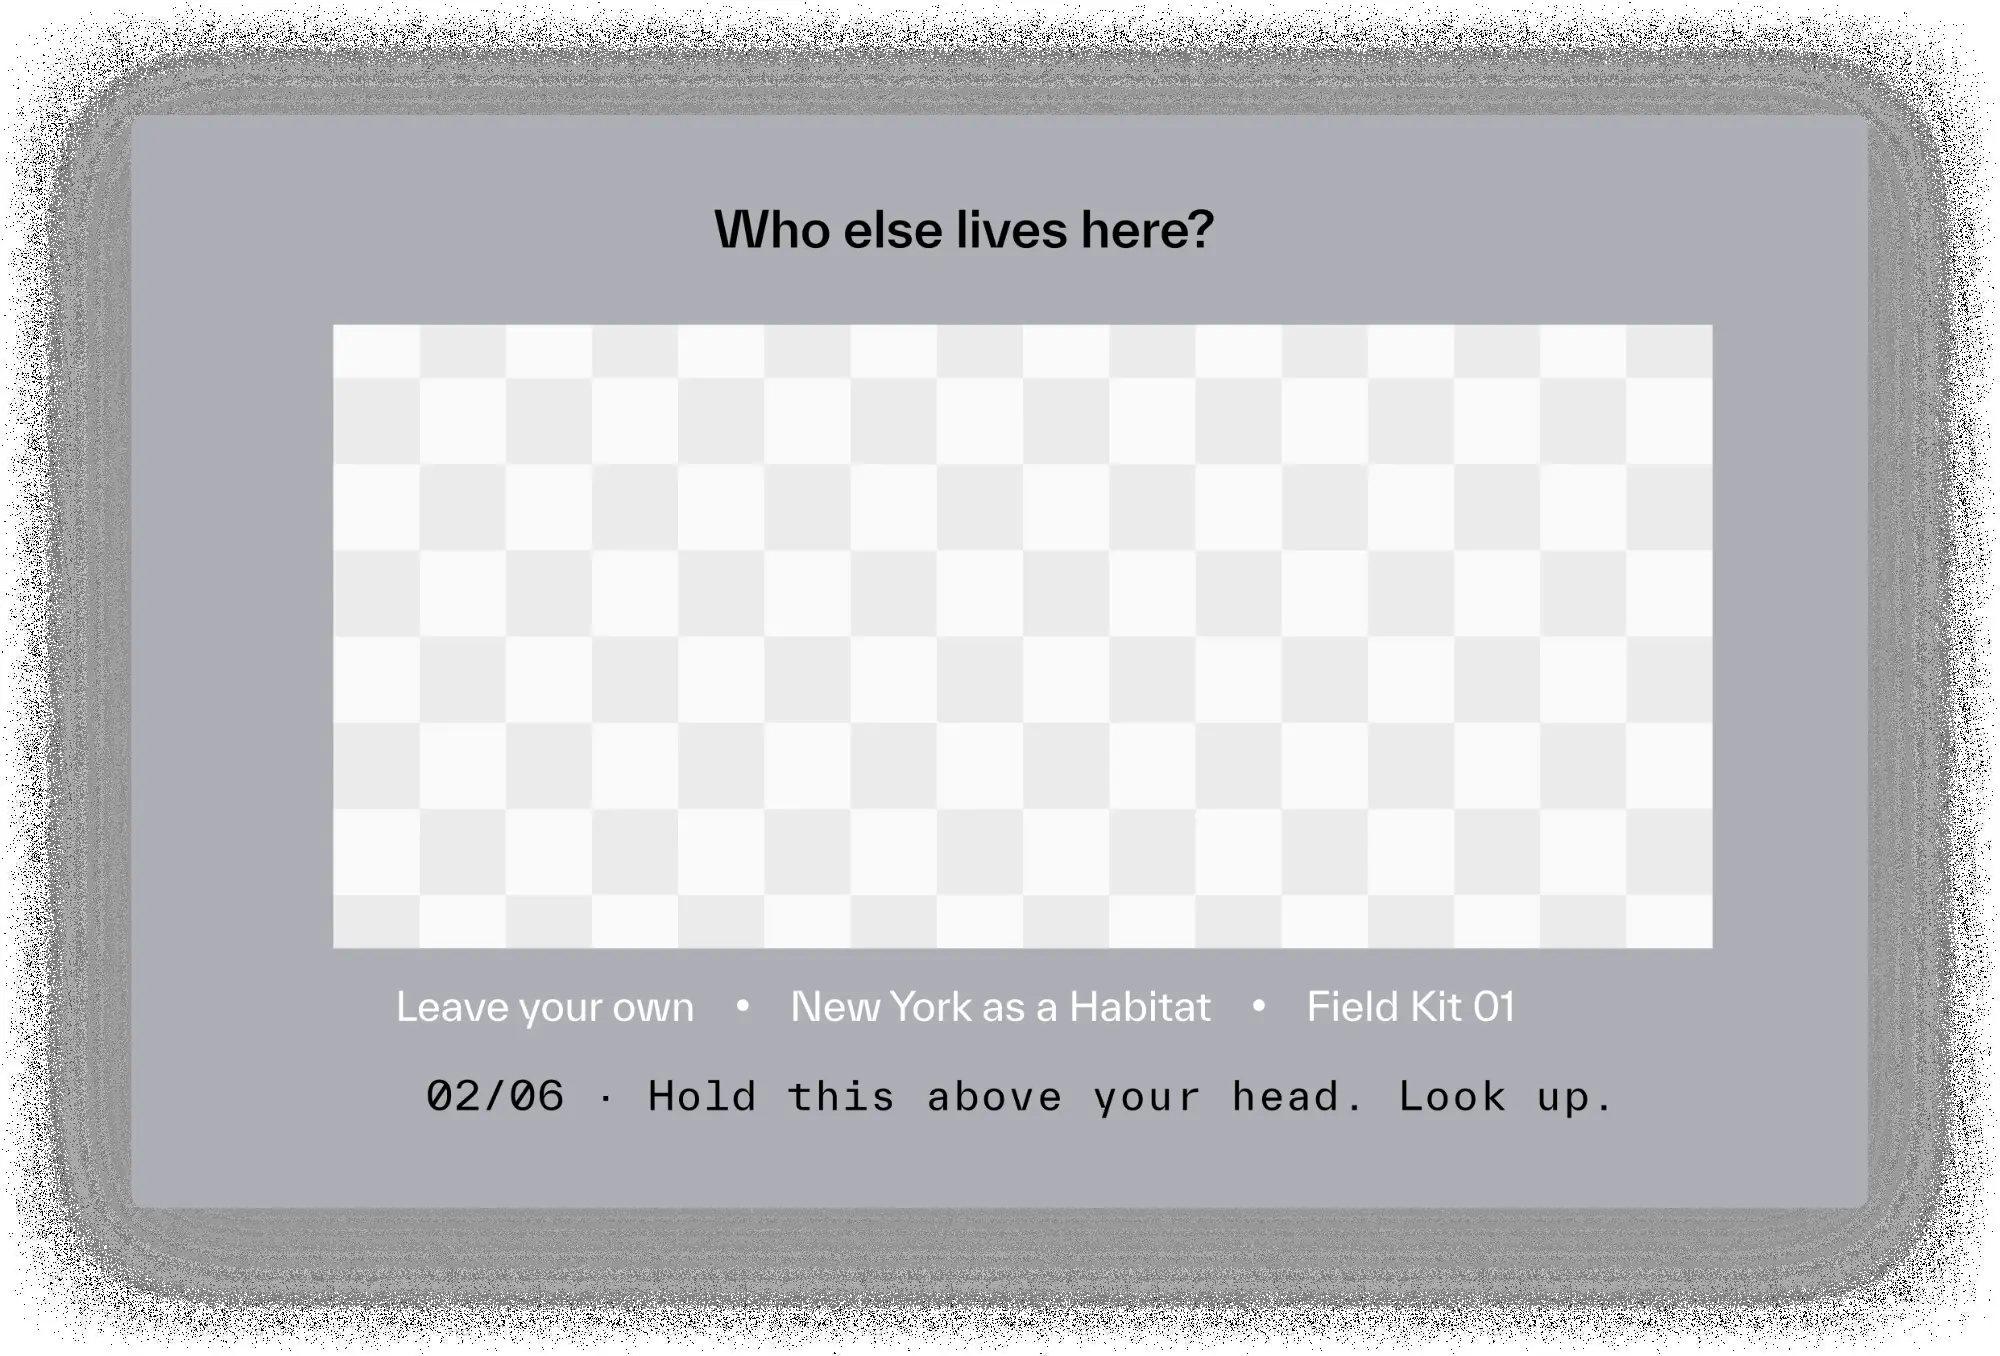
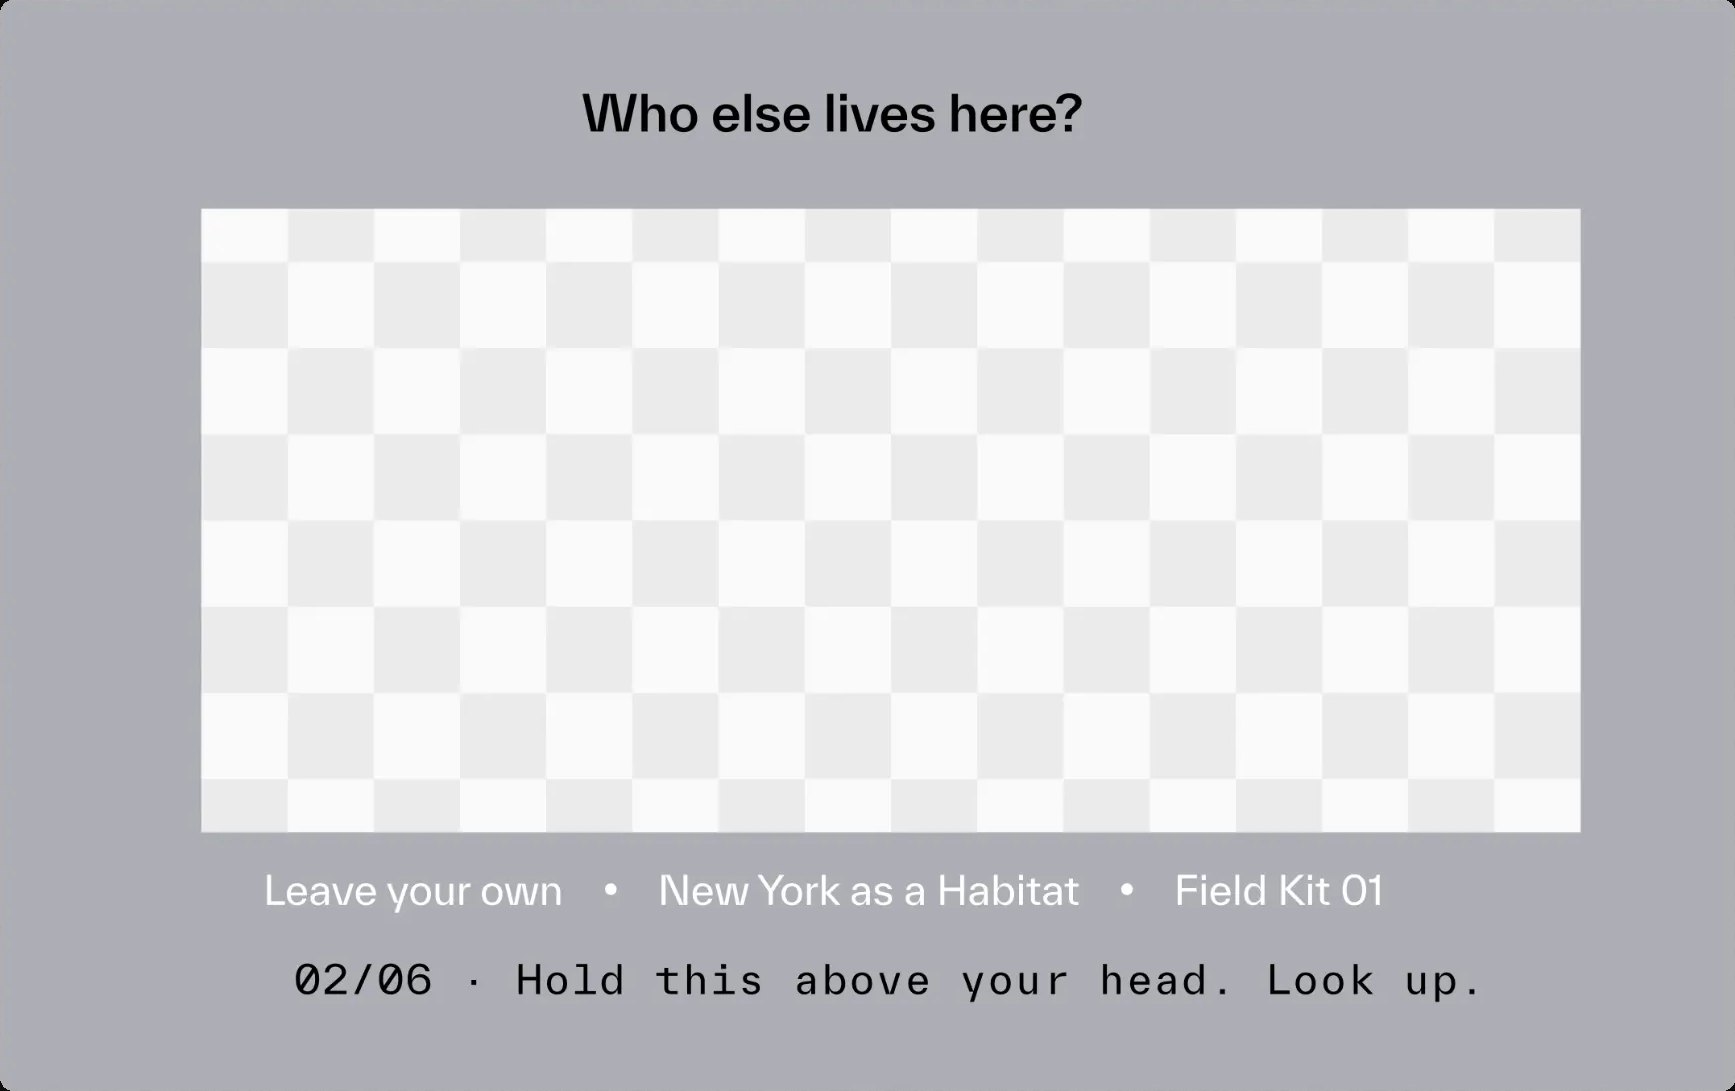
W07: Prototype 1, Continued grows into Field Kit, Poster, Paper Feather
Activity cards cropped to their edge (no shadow halo) and shown
together as one group.

diff --git a/assets/js/data.js b/assets/js/data.js
@@ -14,7 +14,7 @@
     todo      what still needs to be added (shows as a dashed box)
     images    ['book/b10', 'bookfair/f7016', ...]  → assets/img/<folder>/{thumb,full}/<file>.jpg
     links     [{ label, url }]
-    entries   [{ img: [...], source, url, about, text, more: { label, text, notes: [{ text, url }] } }]
+    entries   [{ img: [...], source, url, about, text, layout: 'column', more: { label, text, notes: [{ text, url }] } }]
               → one block per image (or pair): caption text is mine, as written
     title     longer heading shown in the panel (label stays short on the map)
     blocks    [{ title, text }]          → headed paragraphs (e.g. the four questions)
@@ -943,41 +943,44 @@ I want something like this: when people put the book down and move through the c
               entries: [{ img: ['w7-rubric/rubric'] }],
             },
             {
-              id: 'w7-fieldkit', kind: 'step', label: 'Field Kit',
-              // translated from Kiara's note (Chinese)
-              text: `These are the prototype experiments I did this week. The goal is for them to echo the online part, so the audience can do activities offline. For example, the activity cards: each one has a different task, and they encourage people to look at the city from different angles, echoing the gesture part of the website. There is also a small booklet introducing the project, with the website links on it, and a card that asks people to record the sounds around them and make a phone call.
+              id: 'w7-proto1b', kind: 'step', label: 'Prototype 1, Continued',
+              children: [
+                {
+                  id: 'w7-fieldkit', kind: 'step', label: 'Field Kit',
+                  // translated from Kiara's note (Chinese)
+                  text: `These are the prototype experiments I did this week. The goal is for them to echo the online part, so the audience can do activities offline. For example, the activity cards: each one has a different task, and they encourage people to look at the city from different angles, echoing the gesture part of the website. There is also a small booklet introducing the project, with the website links on it, and a card that asks people to record the sounds around them and make a phone call.
 
-But after making all of these, I felt they didn't solve the question of how to make a "delivery package" for the work. I know people will probably look at the website at home, but I still feel something is missing.`,
-              story: true,
-              entries: [
-                { img: ['w7-kit/k1-set'] },
-                { img: ['w7-kit/k2-card1'] },
-                { img: ['w7-kit/k3-card2'] },
-                { img: ['w7-kit/k4-card3'] },
-                { img: ['w7-kit/k5-booklet'] },
-                { img: ['w7-kit/k6-call'] },
-              ],
-            },
-            {
-              id: 'w7-poster', kind: 'step', label: 'Poster',
-              // translated from Kiara's note (Chinese)
-              text: `In the group critique I told everyone my concern. Sammi and Jhyun said I could put up posters, something like asking people whether they want to become a bird, to catch attention, and then put the website link on them. This made me think of this famous meme, so I think it's also a good way, with something like "Are you tired of being a human" written on it.`,
-              story: true,
-              entries: [
-                { img: ['w7-poster/p1-meme'] },
-                { img: ['w7-poster/p2-draft'] },
-              ],
-            },
-            {
-              id: 'w7-feather', kind: 'step', label: 'Paper Feather',
-              // translated from Kiara's note (Chinese)
-              text: `Also in the group critique, I saw other people's work. One was made like the order menu of an old TV shopping program, and another made a book like a flip phone. I found these really interesting, borrowing physical objects to catch people's attention. This made me think of bird feathers, which are everywhere. Sometimes I even pick up a nice pigeon feather when I see one. So I'm thinking maybe I could make the prints into origami feathers.
+    But after making all of these, I felt they didn't solve the question of how to make a "delivery package" for the work. I know people will probably look at the website at home, but I still feel something is missing.`,
+                  story: true,
+                  entries: [
+                    { img: ['w7-kit/k1-set'] },
+                    { img: ['w7-kit/k2-card1', 'w7-kit/k3-card2', 'w7-kit/k4-card3'], layout: 'column' },
+                    { img: ['w7-kit/k5-booklet'] },
+                    { img: ['w7-kit/k6-call'] },
+                  ],
+                },
+                {
+                  id: 'w7-poster', kind: 'step', label: 'Poster',
+                  // translated from Kiara's note (Chinese)
+                  text: `In the group critique I told everyone my concern. Sammi and Jhyun said I could put up posters, something like asking people whether they want to become a bird, to catch attention, and then put the website link on them. This made me think of this famous meme, so I think it's also a good way, with something like "Are you tired of being a human" written on it.`,
+                  story: true,
+                  entries: [
+                    { img: ['w7-poster/p1-meme'] },
+                    { img: ['w7-poster/p2-draft'] },
+                  ],
+                },
+                {
+                  id: 'w7-feather', kind: 'step', label: 'Paper Feather',
+                  // translated from Kiara's note (Chinese)
+                  text: `Also in the group critique, I saw other people's work. One was made like the order menu of an old TV shopping program, and another made a book like a flip phone. I found these really interesting, borrowing physical objects to catch people's attention. This made me think of bird feathers, which are everywhere. Sometimes I even pick up a nice pigeon feather when I see one. So I'm thinking maybe I could make the prints into origami feathers.
 
-This is my small exercise. Right now it's my favorite, because imagine picking up a feather from the ground, opening it, and entering the world of becoming a pigeon! (Even though my website isn't all like that.) The concept itself is really interesting.`,
-              story: true,
-              entries: [
-                { img: ['w7-feather/f1-feather'] },
-                { img: ['w7-feather/f2-paper'] },
+    This is my small exercise. Right now it's my favorite, because imagine picking up a feather from the ground, opening it, and entering the world of becoming a pigeon! (Even though my website isn't all like that.) The concept itself is really interesting.`,
+                  story: true,
+                  entries: [
+                    { img: ['w7-feather/f1-feather'] },
+                    { img: ['w7-feather/f2-paper'] },
+                  ],
+                },
               ],
             },
           ],

diff --git a/assets/js/map.js b/assets/js/map.js
@@ -601,12 +601,13 @@
       // story: text first, then its photos (a field-trip walk-through)
       if (n.story) {
         html += `<section class="entries story">${n.entries.map((e, k) => {
-          const many = (e.img || []).length > 1;
+          const col = e.layout === 'column';
+          const many = (e.img || []).length > 1 && !col;
           const btns = (e.img || []).map((p) => {
             entryItems.push({ src: full(p), caption: `${n.label} — ${String(k + 1).padStart(2, '0')}` });
             return `<button type="button" data-entry="${entryItems.length - 1}"><img loading="lazy" src="${many ? thumb(p) : full(p)}" alt=""></button>`;
           }).join('');
-          return `<article class="entry">${e.text ? `<div class="e-text">${paras(e.text)}</div>` : ''}<div class="e-imgs e-n${(e.img || []).length}">${btns}</div></article>`;
+          return `<article class="entry">${e.text ? `<div class="e-text">${paras(e.text)}</div>` : ''}<div class="e-imgs e-n${(e.img || []).length}${col ? ' e-col' : ''}">${btns}</div></article>`;
         }).join('')}</section>`;
       } else
       html += `<section class="entries"><h3>Collection <span>${n.entries.length}</span></h3>${n.entries.map((e, k) => {

diff --git a/index.html b/index.html
@@ -10,7 +10,7 @@
   <link rel="preconnect" href="https://fonts.gstatic.com" crossorigin>
   <link href="https://fonts.googleapis.com/css2?family=IBM+Plex+Mono:wght@400;500;600&family=Inter:wght@400;600&display=swap" rel="stylesheet">
   <link rel="stylesheet" href="assets/css/base.css?v=7">
-  <link rel="stylesheet" href="assets/css/map.css?v=8">
+  <link rel="stylesheet" href="assets/css/map.css?v=9">
 </head>
 <body>
   <header class="site-header">
@@ -66,9 +66,9 @@
     <button type="button" id="zoom-fit" class="fit">FIT</button>
   </div>
 
-  <script src="assets/js/data.js?v=15"></script>
+  <script src="assets/js/data.js?v=16"></script>
   <script src="assets/js/sound.js?v=7"></script>
   <script src="assets/js/lightbox.js?v=7"></script>
-  <script src="assets/js/map.js?v=9"></script>
+  <script src="assets/js/map.js?v=10"></script>
 </body>
 </html>

diff --git a/assets/css/map.css b/assets/css/map.css
@@ -232,6 +232,10 @@ html, body { height: 100%; overflow: hidden; }
 .entries.story .e-imgs.e-n2, .entries.story .e-imgs.e-n4 { grid-template-columns: repeat(2, 1fr); }
 .entries.story .e-imgs:not(.e-n1) button { aspect-ratio: 1; }
 .entries.story .e-imgs:not(.e-n1) img { height: 100%; max-height: none; object-fit: cover; }
+/* a group kept together: one column, each image whole */
+.entries.story .e-imgs.e-col { grid-template-columns: 1fr; gap: 6px; }
+.entries.story .e-imgs.e-col button { aspect-ratio: auto; }
+.entries.story .e-imgs.e-col img { height: auto; object-fit: contain; }
 
 /* image-by-image entries (caption, source, annotation) */
 .entry { padding: 18px 0 22px; border-bottom: 1px dotted #333; }
